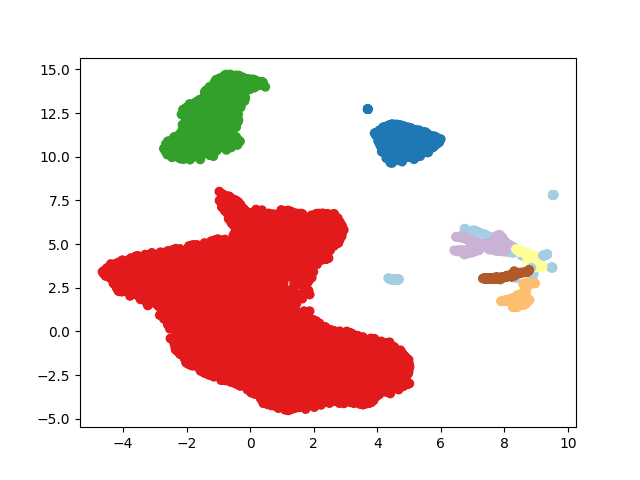
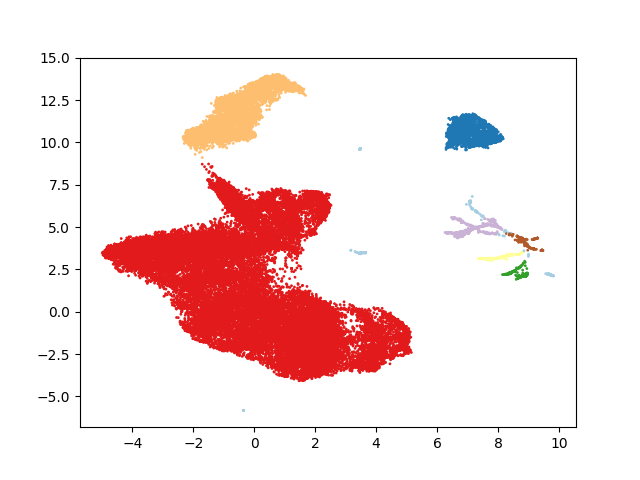
get rid of useless fs in sort_cluster.py

diff --git a/sort_cluster.py b/sort_cluster.py
@@ -9,14 +9,7 @@ import hdbscan
 
 folder = '../../DATA/BONAIRE/session1_20201217to20210126/' # path to a given recording station folder
 outfolder = '../pngs/' # path to the folder to print clustered pngs
-configs = [ # list of spectrogram configs to be clustered
-    {'id':'mel_BBF', 'fs': 2000},
-    {'id':'mel_HBF', 'fs': 16000},
-    {'id':'mel_BMF', 'fs': 64000},
-    {'id':'mel_HMF', 'fs': 256000},
-    {'id':'stft_HMF', 'fs': 64000},
-    {'id':'stft_HF', 'fs': 256000}
-]
+configs = ['mel_BBF', 'mel_HBF', 'mel_BMF', 'mel_HMF', 'stft_HMF', 'stft_HF'] # list of spectrogram configs to be clustered
 sort = True # whether we sort each frequency bins by descending order (used to build an energy distribution image and eliminate time dependent features)
 fs = 512000 # TODO adapt to each recording station (some run at 256kHz)
 chunksize = 20 # size (in time bins) of chunks of spectrogram to cluster independantly
@@ -26,12 +19,12 @@ fns = pd.Series(os.listdir(folder))
 fns = fns[fns.str.endswith('_spec.npy')] #.sample(500)
 
 # for each configuration, we load spectrograms, project features, cluster, and plot spectrograms in pngs
-for c in configs:
+for config in configs:
     # arrays X and meta will hold features and metadata for each samples to be projected / clustered
     X, meta = [], []
-    for f in tqdm(fns, desc='loading spectros for '+c['id'], leave=False):
+    for f in tqdm(fns, desc='loading spectros for '+config, leave=False):
         # load the spectrogram from the .npy file
-        spectro = np.load(folder+f, allow_pickle=True).item()[c['id']]
+        spectro = np.load(folder+f, allow_pickle=True).item()[config]
 
         # cut the spectrogram in chunks time wise
         for offset in np.arange(0, spectro.shape[1]-chunksize, chunksize):
@@ -57,16 +50,17 @@ for c in configs:
     embed = project.fit_transform(X)
 
     # cluster the embedings (min_cluster_size and min_samples parameters need to be tuned)
-    clusterer = hdbscan.HDBSCAN(min_cluster_size=100, min_samples=10).fit(embed) # au depart 50 et 3
+    clusterer = hdbscan.HDBSCAN(min_cluster_size=40, min_samples=15).fit(embed) # au depart 50 et 3
     meta['cluster'] = clusterer.labels_
 
     # display information for the user to check whether the clustering has gone well or not
-    print('clusters for '+c['id'])
+    print('clusters for '+config)
     print(meta.groupby('cluster').agg({'fn':'nunique', 'offset':'count'})\
           .rename(columns={'fn':'n unique files', 'offset':'n samples'}))
     plt.scatter(embed[:,0], embed[:,1], c=clusterer.labels_ , cmap="Paired", s=1)
+    plt.colorbar()
     plt.show()
-    plt.savefig('scatter_'+c['id'])
+    plt.savefig('scatter_'+config)
     plt.close()
 
     # For each cluster, we create a folder of png spectrograms
@@ -74,17 +68,16 @@ for c in configs:
         # if the cluster is more than 300 samples big, we consider it is noise (to tune depending on dataset size)
         if len(grp) > 300:
             continue
-
         # create the cluster folder in the config folder
-        os.system('mkdir -p '+outfolder+c['id']+'/'+str(cluster))
+        os.system('mkdir -p '+outfolder+config+'/'+str(cluster))
 
         # for each sample in the cluster, we plot the spectrogram for quick visualisation of the clustering result
         for row in tqdm(grp.itertuples(), desc='ploting spectros for cluster '+str(cluster), total=len(grp), leave=False):
 
             # load the spectrogram from the .npy file
-            spectro = np.load(folder+row.fn, allow_pickle=True).item()[c['id']]
+            spectro = np.load(folder+row.fn, allow_pickle=True).item()[config]
             plt.imshow(np.log10(spectro[:, row.offset : row.offset+chunksize]), origin='lower', aspect='auto')
 
             # TODO convert the offset (in max pooled time bins) to seconds
-            plt.savefig(outfolder+c['id']+'/'+str(cluster)+'/'+row.fn[:-9]+'_'+str(row.offset))
+            plt.savefig(outfolder+config+'/'+str(cluster)+'/'+row.fn[:-9]+'_'+str(row.offset))
             plt.close()
